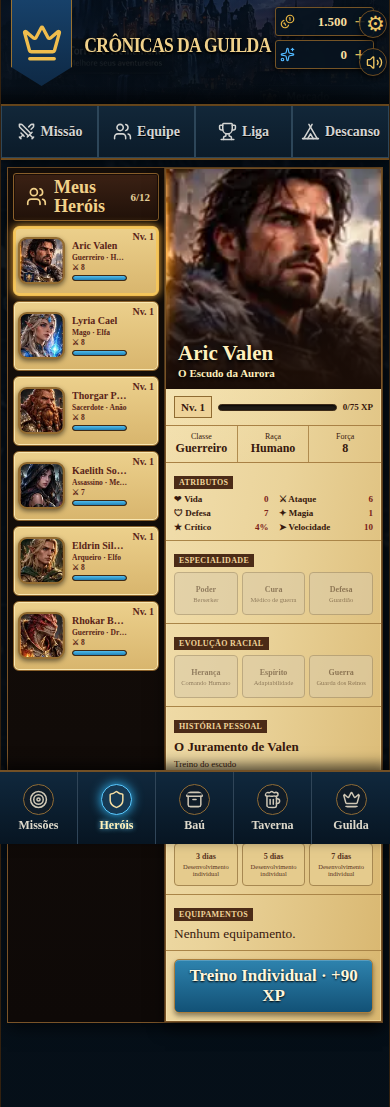
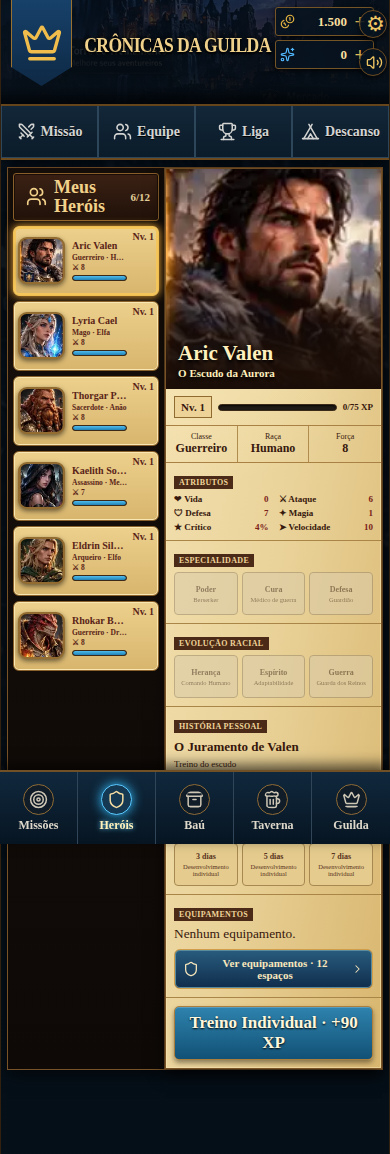
Adiciona tela isolada de 12 equipamentos por personagem
* Cria tela independente com 12 espaços de equipamentos para os heróis

* Visual snapshots mobile

---------

diff --git a/app/game-client.tsx b/app/game-client.tsx
@@ -1,7 +1,7 @@
 import { useCallback, useEffect, useMemo, useRef, useState, type ReactNode } from "react";
 import {
-  Archive, BookOpen, Check, ChevronRight, CircleHelp, Coins, Crown, Download,
-  Flag, Hammer, Heart, LockKeyhole, ScrollText, Shield, Sparkles, Swords,
+  Archive, BookOpen, Check, ChevronLeft, ChevronRight, CircleHelp, Coins, Crown, Download,
+  Flag, Footprints, Gem, Hammer, Hand, Heart, LockKeyhole, ScrollText, Shield, Shirt, Sparkles, Swords,
   Target, Tent, Trophy, Upload, Users, Volume2, VolumeX, Beer, X
 } from "lucide-react";
 import {
@@ -23,9 +23,10 @@ import {
   type LocalSave
 } from "@/lib/local-save";
 import { portraitPosition } from "@/lib/portraits";
+import { EQUIPMENT_SLOTS, type EquipmentSlotId } from "@/lib/equipment-layout";
 
 type Save = Pick<LocalSave, "state" | "revision">;
-type Screen = "mission" | "team" | "league" | "rest" | "heroes" | "chest" | "tavern" | "guild";
+type Screen = "mission" | "team" | "league" | "rest" | "heroes" | "equipment" | "chest" | "tavern" | "guild";
 
 const fmt = (n: number) => n.toLocaleString("pt-BR");
 const missionArt = ["/reference/mission-1.webp", "/reference/mission-2.webp", "/reference/mission-3.webp", "/reference/mission-4.webp", "/reference/mission-5.webp"];
@@ -286,7 +287,7 @@ function BottomNav({ screen, go }: { screen: Screen; go: (s: Screen) => void }) 
   const missionActive = ["mission","team","league","rest"].includes(screen);
   const tabs: Array<[Screen,string,ReactNode,boolean]> = [
     ["mission","Missões",<Target key="m" />,missionActive],
-    ["heroes","Heróis",<Shield key="h" />,screen === "heroes"],
+    ["heroes","Heróis",<Shield key="h" />,screen === "heroes" || screen === "equipment"],
     ["chest","Baú",<Archive key="b" />,screen === "chest"],
     ["tavern","Taverna",<Beer key="t" />,screen === "tavern"],
     ["guild","Guilda",<Crown key="g" />,screen === "guild"],
@@ -484,8 +485,8 @@ function RestPage({ state, act, busy }: { state: Campaign; act: (a: Action) => v
   </section>;
 }
 
-function HeroPage({ state, selectedId, selectHero, act, busy }: {
-  state: Campaign; selectedId: string; selectHero: (id: string) => void; act: (a: Action) => void; busy: boolean;
+function HeroPage({ state, selectedId, selectHero, openEquipment, act, busy }: {
+  state: Campaign; selectedId: string; selectHero: (id: string) => void; openEquipment: () => void; act: (a: Action) => void; busy: boolean;
 }) {
   const hero = state.heroes.find(h => h.id === selectedId) || state.heroes[0];
   const stats = heroStats(hero,state);
@@ -529,10 +530,69 @@ function HeroPage({ state, selectedId, selectHero, act, busy }: {
           {journey ? <div className="journey-box"><strong>{journey.remaining} dia(s) restantes · +{journey.xpEarned} XP</strong><div className="choice-grid">{(Object.keys(JOURNEY_CHOICES) as JourneyChoice[]).map(c => <button data-active={journey.choice === c} key={c} onClick={() => act({type:"journey-choice",journeyId:journey.id,choice:c})}>{JOURNEY_CHOICES[c].name}</button>)}</div></div>
           : <div className="choice-grid">{([3,5,7] as JourneyDuration[]).map(d => <button key={d} disabled={busy || !canAct} onClick={() => act({type:"start-journey",heroId:hero.id,duration:d})}><strong>{d} dias</strong><small>Desenvolvimento individual</small></button>)}</div>}
         </section>
-        <section className="sheet-section"><label>Equipamentos</label><div className="equipment-row">{equipped.length ? equipped.map(i => <ItemArt key={i.id} itemKey={i.key} />) : <small>Nenhum equipamento.</small>}</div></section>
+        <section className="sheet-section"><label>Equipamentos</label><div className="equipment-row">{equipped.length ? equipped.map(i => <ItemArt key={i.id} itemKey={i.key} />) : <small>Nenhum equipamento.</small>}</div><button type="button" className="hero-equipment-link" onClick={openEquipment}><Shield aria-hidden="true" /> Ver equipamentos · 12 espaços <ChevronRight aria-hidden="true" /></button></section>
         <button className="action-button blue huge" disabled={busy || !canAct || hero.energy < 15} onClick={() => act({type:"train-hero",heroId:hero.id})}>Treino Individual · +{trainingPlan(state,hero).xp} XP</button>
       </article>
     </div>
+  </section>;
+}
+
+
+const EQUIPMENT_ICONS = {
+  weapon:Swords, offhand:Shield, helmet:Crown, shoulders:Shield,
+  armor:Shirt, gloves:Hand, belt:Archive, boots:Footprints,
+  cloak:Flag, ring1:Gem, ring2:Gem, amulet:Sparkles,
+} satisfies Record<EquipmentSlotId, typeof Swords>;
+
+function EquipmentPage({ state, selectedId, selectHero, back }: {
+  state: Campaign; selectedId: string; selectHero: (id: string) => void; back: () => void;
+}) {
+  const hero = state.heroes.find(h => h.id === selectedId) || state.heroes[0];
+  const [selectedSlot, setSelectedSlot] = useState<EquipmentSlotId>("weapon");
+  const activeSlot = EQUIPMENT_SLOTS.find(s => s.id === selectedSlot) || EQUIPMENT_SLOTS[0];
+  const equippedCount = state.chest.filter(i => i.equippedTo === hero.id && ITEMS[i.key]).length;
+
+  return <section className="screen equipment-screen" aria-label="Equipamentos de 12 espaços">
+    <header className="equipment-page-header">
+      <button type="button" className="equipment-back" onClick={back}>
+        <ChevronLeft aria-hidden="true"/> Voltar aos Heróis
+      </button>
+      <div className="equipment-page-title"><Shield aria-hidden="true"/><div>
+        <h2>Equipamentos</h2><p>12 espaços por personagem</p>
+      </div></div>
+    </header>
+
+    <section className="equipment-hero-card parchment" aria-label="Personagem selecionado">
+      <HeroPortrait hero={hero} />
+      <div className="equipment-hero-name"><strong>{hero.name}</strong>
+        <span>{CLASSES[hero.class].name} · Nv. {hero.level}</span>
+        <small>{equippedCount}/12 equipados</small>
+      </div>
+      <label className="equipment-hero-chooser">Trocar herói
+        <select value={hero.id} onChange={e => selectHero(e.target.value)} aria-label="Escolher herói para visualizar equipamentos">
+          {state.heroes.map(h => <option key={h.id} value={h.id}>{h.name}</option>)}
+        </select>
+      </label>
+    </section>
+
+    <p className="equipment-intro">Toque em um espaço para conhecer sua função. Os itens serão habilitados após a aprovação do novo catálogo.</p>
+    <div className="equipment-slot-grid" role="group" aria-label="12 espaços de equipamento">
+      {EQUIPMENT_SLOTS.map((slot, i) => {
+        const Icon = EQUIPMENT_ICONS[slot.id];
+        return <button type="button" key={slot.id} className="equipment-slot" data-slot={slot.id}
+          data-selected={selectedSlot === slot.id} aria-pressed={selectedSlot === slot.id}
+          onClick={() => setSelectedSlot(slot.id)}>
+          <span className="equipment-slot-icon"><Icon aria-hidden="true"/></span>
+          <span className="equipment-slot-copy"><strong>{i + 1}. {slot.label}</strong><small>Vazio</small></span>
+        </button>;
+      })}
+    </div>
+    <section className="equipment-slot-detail parchment" aria-live="polite">
+      <span className="equipment-detail-label">{activeSlot.group}</span>
+      <h3>{activeSlot.label}</h3><p>{activeSlot.description}</p>
+      <p className="equipment-catalog-warning"><LockKeyhole aria-hidden="true"/> Nenhum item disponível para equipar nesta versão.</p>
+    </section>
+    <button type="button" className="equipment-bottom-back" onClick={back}><ChevronLeft aria-hidden="true"/> Voltar à ficha do herói</button>
   </section>;
 }
 
@@ -755,14 +815,15 @@ export default function Game() {
 
   return <div className="app-shell">
     <TopBar state={state} goGuild={() => go("guild")} musicEnabled={musicEnabled} toggleMusic={toggleMusic} />
-    {screen !== "guild" && <TopNav screen={screen} go={go} />}
+    {screen !== "guild" && screen !== "equipment" && <TopNav screen={screen} go={go} />}
     {error && <button className="error" onClick={() => setError("")}><X /> {error}</button>}
     <main className="game-content">
       {screen === "mission" && <MissionPage state={state} selectedId={selectedMission.id} selectMission={setSelectedMissionId} goTeam={() => go("team")} />}
       {screen === "team" && <TeamPage state={state} selectedMission={selectedMission} team={team} formation={formation} tactic={tactic} slot={slot} busy={busy} setTeam={setTeam} setFormation={setFormation} setTactic={setTactic} setSlot={setSlot} act={perform} openBattle={setBattleExpeditionId} />}
       {screen === "league" && <LeaguePage state={state} team={team} act={perform} busy={busy} />}
       {screen === "rest" && <RestPage state={state} act={perform} busy={busy} />}
-      {screen === "heroes" && <HeroPage state={state} selectedId={selectedHeroId} selectHero={setSelectedHeroId} act={perform} busy={busy} />}
+      {screen === "heroes" && <HeroPage state={state} selectedId={selectedHeroId} selectHero={setSelectedHeroId} openEquipment={() => go("equipment")} act={perform} busy={busy} />}
+      {screen === "equipment" && <EquipmentPage state={state} selectedId={selectedHeroId} selectHero={setSelectedHeroId} back={() => go("heroes")} />}
       {screen === "chest" && <ChestPage state={state} act={perform} busy={busy} />}
       {screen === "tavern" && <TavernPage state={state} act={perform} busy={busy} openMission={id => { setSelectedMissionId(id); go("mission"); }} />}
       {screen === "guild" && <GuildPage state={state} act={perform} busy={busy} onExport={downloadBackup} onImport={() => fileRef.current?.click()} onReset={() => { if (window.confirm("Reiniciar toda a campanha?")) perform({type:"reset"}); }} />}

diff --git a/app/ui.css b/app/ui.css
@@ -1290,3 +1290,102 @@ img{display:block;max-width:100%}
 
 /* sem toast de sucesso */
 .flash{display:none!important}
+
+
+/* Tela separada de equipamentos: limitada ao próprio escopo, sem alterar a ficha de Heróis. */
+.hero-equipment-link{
+  display:flex;justify-content:center;align-items:center;gap:7px;width:100%;min-height:38px;
+  margin-top:7px;padding:7px 8px;color:#f8e7bc;font-size:11px;font-weight:bold;
+  border:1px solid #d19d48;border-radius:6px;
+  background:linear-gradient(180deg,#285c7e,#102d4c);
+  box-shadow:inset 0 0 0 1px #5a8c9d;
+}
+.hero-equipment-link svg{width:16px;height:16px;flex-shrink:0}
+.hero-equipment-link svg:last-child{width:13px}
+.equipment-screen{max-width:690px;margin-inline:auto;color:#f5e6c1}
+.equipment-page-header{
+  padding:12px 12px 14px;
+  border:1px solid #99713b;
+  background:linear-gradient(165deg,#122c43,#061321);
+  box-shadow:0 3px 15px #0009;
+}
+.equipment-back,.equipment-bottom-back{
+  display:flex;align-items:center;justify-content:center;gap:5px;min-height:38px;
+  color:#f8e5ae;background:#1b364e;border:1px solid #b88b48;border-radius:6px;
+  font-size:12px;font-weight:700;padding:8px 12px;
+}
+.equipment-back svg,.equipment-bottom-back svg{width:17px;height:17px}
+.equipment-page-title{display:flex;align-items:center;justify-content:center;gap:11px;text-align:left;margin-top:8px}
+.equipment-page-title>svg{width:34px;height:34px;color:#edc675}
+.equipment-page-title h2{margin:0;color:#f2d48f;font-size:clamp(22px,6vw,31px);line-height:1.05}
+.equipment-page-title p{margin:4px 0 0;font-size:13px;color:#d9cbad}
+.equipment-hero-card{
+  display:grid;grid-template-columns:66px minmax(0,1fr);
+  gap:9px;align-items:center;margin-top:9px;padding:9px;
+}
+.equipment-hero-card .hero-portrait{width:66px;height:74px}
+.equipment-hero-name{display:grid;align-content:center;gap:3px;min-width:0;color:#4a291b}
+.equipment-hero-name strong{font-size:18px;line-height:1.1;overflow-wrap:anywhere}
+.equipment-hero-name span{font-size:12px}
+.equipment-hero-name small{font-size:11px;font-weight:bold;color:#73552e}
+.equipment-hero-chooser{grid-column:1/-1;display:grid;gap:5px;color:#4f351e;font-size:12px;font-weight:bold}
+.equipment-hero-chooser select{
+  width:100%;height:40px;min-width:0;padding:7px;
+  color:#422710;border:1px solid #a17b38;border-radius:5px;background:#f1dfac;
+  font-size:13px;
+}
+.equipment-intro{
+  margin:11px 4px;color:#e7d7b0;font-size:12px;line-height:1.45;text-align:center;
+}
+.equipment-slot-grid{
+  display:grid;grid-template-columns:repeat(2,minmax(0,1fr));
+  gap:8px;width:100%;min-width:0;
+}
+.equipment-slot{
+  display:flex;align-items:center;gap:9px;min-width:0;min-height:77px;
+  padding:9px 7px;text-align:left;border:2px solid #8b6335;border-radius:7px;
+  color:#f1dfb1;background:linear-gradient(145deg,#20374b,#0b1a2a 70%);
+  box-shadow:inset 0 0 0 1px #cda35766,0 2px 7px #0007;
+}
+.equipment-slot[data-selected="true"]{
+  border-color:#f1c85c;box-shadow:inset 0 0 0 1px #f1d481,0 0 10px #d7a44b;
+  background:linear-gradient(145deg,#314f65,#173650 70%);
+}
+.equipment-slot:focus-visible,.hero-equipment-link:focus-visible,
+.equipment-back:focus-visible,.equipment-bottom-back:focus-visible{
+  outline:3px solid #f5d184;outline-offset:2px;
+}
+.equipment-slot-icon{
+  display:grid;place-items:center;flex:0 0 43px;width:43px;height:48px;
+  border-radius:6px;border:1px solid #a98043;
+  background:radial-gradient(circle at 50% 35%,#55627a,#18232e 68%);
+  color:#f6d381;
+}
+.equipment-slot-icon svg{width:27px;height:27px}
+.equipment-slot-copy{min-width:0;display:grid;gap:5px}
+.equipment-slot-copy strong{font-size:clamp(10px,2.7vw,14px);line-height:1.1;overflow-wrap:anywhere}
+.equipment-slot-copy small{font-size:11px;color:#bfb6a5}
+.equipment-slot-detail{margin-top:10px;padding:13px 15px;color:#422718}
+.equipment-detail-label{
+  display:inline-block;color:#f9e5b5;background:#50301b;padding:3px 8px;font-size:10px;font-weight:bold;
+}
+.equipment-slot-detail h3{margin:7px 0;font-size:19px;color:#37261e}
+.equipment-slot-detail p{font-size:13px;line-height:1.4;margin:5px 0}
+.equipment-slot-detail .equipment-catalog-warning{
+  display:flex;align-items:center;gap:8px;margin-top:11px;padding-top:10px;
+  border-top:1px solid #ac8e59;font-size:11px;font-weight:bold;color:#713621;
+}
+.equipment-catalog-warning svg{width:17px;height:17px;flex-shrink:0}
+.equipment-bottom-back{width:100%;margin-top:10px}
+@media(min-width:590px){
+  .equipment-hero-card{grid-template-columns:72px minmax(0,1fr) minmax(175px,30%)}
+  .equipment-hero-chooser{grid-column:auto}
+  .equipment-slot-grid{grid-template-columns:repeat(3,minmax(0,1fr))}
+}
+@media(max-width:360px){
+  .equipment-slot-grid{gap:6px}
+  .equipment-slot{gap:5px;min-height:69px;padding:6px 4px}
+  .equipment-slot-icon{flex-basis:34px;width:34px;height:41px}
+  .equipment-slot-icon svg{width:23px;height:23px}
+  .equipment-slot-copy strong{font-size:10px}
+}

diff --git a/lib/equipment-layout.ts b/lib/equipment-layout.ts
@@ -1,0 +1,27 @@
+/** Planejamento visual dos equipamentos. Não altera o inventário nem o combate. */
+export type EquipmentSlotId =
+  | "weapon" | "offhand" | "helmet" | "shoulders"
+  | "armor" | "gloves" | "belt" | "boots"
+  | "cloak" | "ring1" | "ring2" | "amulet";
+
+export type EquipmentSlot = Readonly<{
+  id: EquipmentSlotId;
+  label: string;
+  description: string;
+  group: "Armamento" | "Proteção" | "Acessórios";
+}>;
+
+export const EQUIPMENT_SLOTS: readonly EquipmentSlot[] = [
+  { id:"weapon", label:"Arma principal", group:"Armamento", description:"Espada, arco, cajado ou outra arma principal apropriada à classe." },
+  { id:"offhand", label:"Mão secundária", group:"Armamento", description:"Escudo, foco ou arma secundária. Armas de duas mãos ocuparão os dois espaços." },
+  { id:"helmet", label:"Elmo", group:"Proteção", description:"Protege a cabeça e poderá fornecer atributos defensivos." },
+  { id:"shoulders", label:"Ombreiras", group:"Proteção", description:"Proteção separada para os ombros; não ocupa o espaço do peitoral." },
+  { id:"armor", label:"Armadura", group:"Proteção", description:"Peitoral, túnica ou vestimenta principal do personagem." },
+  { id:"gloves", label:"Luvas", group:"Proteção", description:"Manoplas ou luvas para defesa, destreza e efeitos de classe." },
+  { id:"belt", label:"Cinto", group:"Proteção", description:"Cinto equipado independentemente da armadura principal." },
+  { id:"boots", label:"Botas", group:"Proteção", description:"Calçado de combate e exploração, com bônus de mobilidade." },
+  { id:"cloak", label:"Capa / Manto", group:"Proteção", description:"Capa ou manto independente da armadura; poderá conceder resistência e evasão." },
+  { id:"ring1", label:"Anel 1", group:"Acessórios", description:"Primeiro anel com atributos, afinidades ou efeitos passivos." },
+  { id:"ring2", label:"Anel 2", group:"Acessórios", description:"Segundo anel independente; os efeitos deverão respeitar regras de equilíbrio." },
+  { id:"amulet", label:"Amuleto", group:"Acessórios", description:"Amuleto ou pingente destinado a efeitos mágicos e passivos." },
+] as const;

diff --git a/scripts/test-equipment-layout.ts b/scripts/test-equipment-layout.ts
@@ -1,0 +1,15 @@
+import assert from "node:assert/strict";
+import { EQUIPMENT_SLOTS, type EquipmentSlotId } from "../lib/equipment-layout.ts";
+
+assert.equal(EQUIPMENT_SLOTS.length, 12, "A ficha precisa mostrar 12 espaços");
+assert.equal(new Set(EQUIPMENT_SLOTS.map(s=>s.id)).size,12,"Não pode haver espaços duplicados");
+const expected: EquipmentSlotId[] = [
+"weapon","offhand","helmet","shoulders","armor","gloves",
+"belt","boots","cloak","ring1","ring2","amulet"
+];
+assert.deepEqual(EQUIPMENT_SLOTS.map(s=>s.id), expected,"Os espaços não correspondem à configuração aprovada");
+for(const slot of EQUIPMENT_SLOTS) {
+  assert.ok(slot.label.trim().length > 2 && slot.description.trim().length > 16,slot.id+" não tem descrição");
+}
+assert.notEqual(EQUIPMENT_SLOTS[9].id,EQUIPMENT_SLOTS[10].id,"Os dois anéis precisam ser independentes");
+console.log("EQUIPAMENTOS_12_ESPACOS_OK",EQUIPMENT_SLOTS.length);
